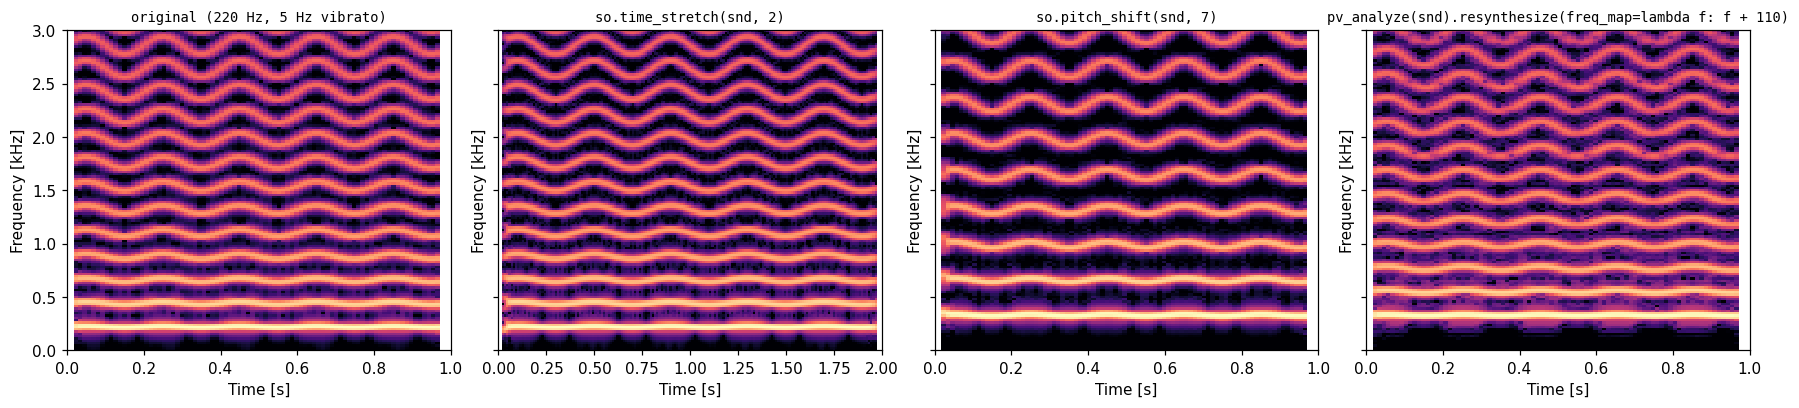
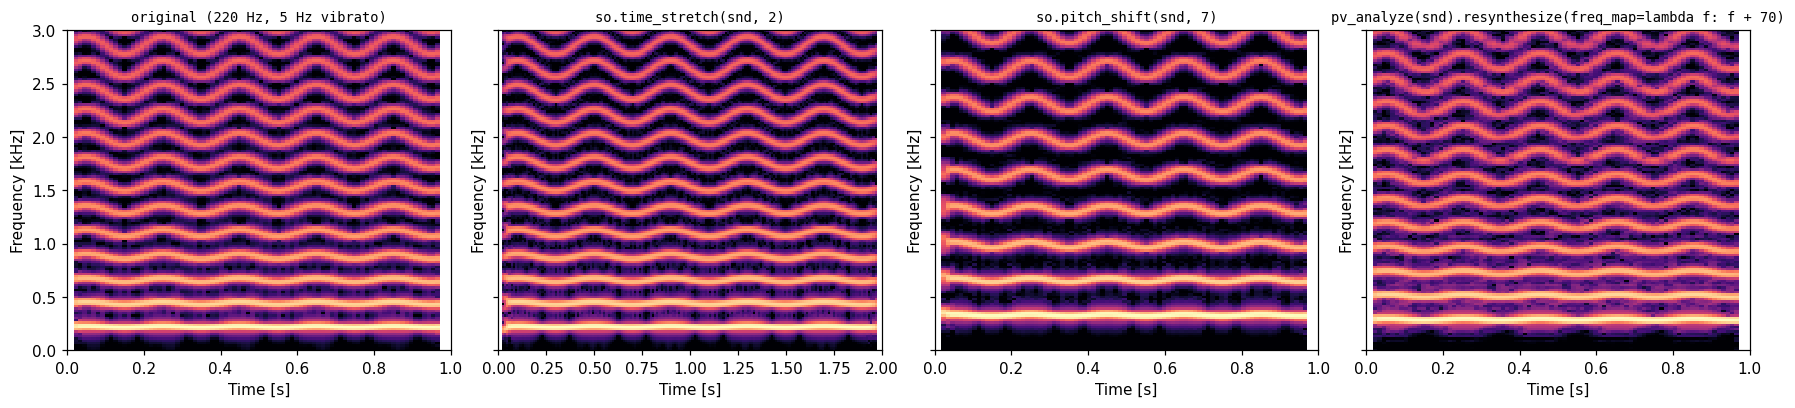
Fix synth_ir wrap-around at the end of the IR; correct the inharmonic example
- synth_ir: circular FFT re-filtering wrapped a little of the onset to the
  last samples of the IR (-22 dB instead of ~-64 dB). Zero-pad before
  re-filtering; regression test
- document that filterbank analysis/synthesis and Sound.envelope() are
  FFT-based (circular), and when to pad
- a +110 Hz shift of a 220 Hz complex gives odd harmonics of 110 Hz, not an
  inharmonic sound: README figure, text and docstring now use +70 Hz and
  explain the half-spacing case

diff --git a/src/sonore/filterbank.py b/src/sonore/filterbank.py
@@ -73,7 +73,13 @@ class CosineFilterbank:
         return self.response(np.fft.rfftfreq(n, 1 / fs))
 
     def analyze(self, sound: Sound) -> Subbands:
-        """Split ``sound`` into subbands (zero-phase, via FFT)."""
+        """Split ``sound`` into subbands (zero-phase, via FFT).
+
+        The filtering is circular: filter ringing near one end of the sound
+        wraps around to the other. That's harmless for sounds that are
+        stationary or start and end quietly; otherwise zero-pad first
+        (``sound.pad(before=..., after=...)``).
+        """
         n = len(sound)
         H = self.rfft_response(n, sound.fs)  # (F, B)
         X = np.fft.rfft(sound.data, axis=0)  # (F, C)
@@ -193,7 +199,8 @@ class Subbands:
 
     def synthesize(self) -> Sound:
         """Re-filter each band and sum: the exact inverse of
-        :meth:`CosineFilterbank.analyze`. Use this after modifying bands."""
+        :meth:`CosineFilterbank.analyze`. Use this after modifying bands.
+        Like ``analyze``, the filtering is circular (see there)."""
         n = self._data.shape[0]
         H = self.filterbank.rfft_response(n, self.fs)
         X = np.fft.rfft(self._data, axis=0) * H[:, :, None]

diff --git a/src/sonore/reverb.py b/src/sonore/reverb.py
@@ -9,7 +9,7 @@ from importlib.resources import files
 import numpy as np
 
 from sonore.envelopes import Envelopes
-from sonore.filterbank import ERBFilterbank
+from sonore.filterbank import ERBFilterbank, Subbands
 from sonore.generators import gaussian_noise
 from sonore.sound import Sound
 from sonore.utils import as_rng, db_to_amp
@@ -80,7 +80,13 @@ def synth_ir(
     elif envelope != "exponential":
         raise ValueError("envelope must be 'exponential' or 'time_reversed'")
     decay = Envelopes(db_to_amp(env_db), fs, fb)  # one exponential decay per band
-    tail = (decay * fb.analyze(noise)).synthesize().normalize()
+    shaped = decay * fb.analyze(noise)
+    # Re-filtering is FFT-based (circular), and the zero-phase filters smear a
+    # little of the loud onset to just before t = 0, which would wrap around to
+    # the end of the IR. Zero-pad first so that smear lands in discarded padding.
+    n, pad = len(noise), len(noise)
+    padded = Subbands(np.pad(shaped.data, ((pad, pad), (0, 0), (0, 0))), fs, fb)
+    tail = Sound(padded.synthesize().data[pad : pad + n], fs).normalize()
 
     if drr_db is None:
         return tail

diff --git a/src/sonore/phasevocoder.py b/src/sonore/phasevocoder.py
@@ -80,8 +80,10 @@ class PVAnalysis:
         interpolated between frames and whose phase is the running integral of
         frequency. ``time_scale`` stretches the time axis; ``freq_map`` is a
         ratio (e.g. ``1.5``) or a function mapping frequencies in Hz to new
-        frequencies (e.g. ``lambda f: f + 100`` to make a harmonic sound
-        inharmonic). Bins that never come within ``floor_db`` of the loudest
+        frequencies. For example ``lambda f: f + 70`` makes a 220 Hz harmonic
+        complex inharmonic; note that shifting by a multiple of half the f0
+        keeps it harmonic (``f + 110`` gives odd harmonics of 110 Hz).
+        Bins that never come within ``floor_db`` of the loudest
         bin are skipped, and partials mapped above Nyquist are dropped.
 
         This is designed for tonal sounds, which it reconstructs closely

diff --git a/src/sonore/sound.py b/src/sonore/sound.py
@@ -341,7 +341,12 @@ class Sound:
     def envelope(self):
         """Hilbert envelope of each channel, as an :class:`~sonore.envelopes.Envelope`
         (not a Sound: you apply an envelope to a sound rather than listen to it).
-        ``snd / snd.envelope()`` is the fine structure."""
+        ``snd / snd.envelope()`` is the fine structure.
+
+        The Hilbert transform is FFT-based, so a loud start can leak into the
+        last few milliseconds of the envelope (and vice versa). When the ends
+        matter, e.g. measuring a decay, pad first: ``snd.pad(after=0.5).envelope()``.
+        """
         from sonore.envelopes import Envelope
 
         return Envelope(np.abs(hilbert(self._data, axis=0)), self.fs)

diff --git a/tests/test_sonore.py b/tests/test_sonore.py
@@ -310,6 +310,13 @@ class TestReverb:
         slope = np.polyfit(t[sel], edc[sel], 1)[0]
         assert -60 / slope == pytest.approx(0.5, rel=0.25)
 
+    def test_no_wraparound_at_the_end(self):
+        # regression: circular filtering wrapped onset energy to the IR's last samples
+        ir = so.synth_ir(1.0, FS, drr_db=0, rng=0).data[:, 0]
+        onset = np.mean(ir[1 : int(0.05 * FS)] ** 2)
+        end = np.mean(ir[-int(0.05 * FS) :] ** 2)
+        assert 10 * np.log10(end / onset) < -50
+
     def test_binaural_tails_are_decorrelated(self):
         ir = so.synth_ir(0.5, FS, n_channels=2, rng=0)
         assert abs(np.corrcoef(ir.data.T)[0, 1]) < 0.1

diff --git a/docs/make_figures.py b/docs/make_figures.py
@@ -86,8 +86,8 @@ panels = [
     ("so.time_stretch(snd, 2)", so.time_stretch(sung, 2)),
     ("so.pitch_shift(snd, 7)", so.pitch_shift(sung, 7)),
     (
-        "pv_analyze(snd).resynthesize(freq_map=lambda f: f + 110)",
-        so.pv_analyze(sung).resynthesize(freq_map=lambda f: f + 110),
+        "pv_analyze(snd).resynthesize(freq_map=lambda f: f + 70)",
+        so.pv_analyze(sung).resynthesize(freq_map=lambda f: f + 70),
     ),
 ]
 fig, axes = plt.subplots(1, 4, figsize=(16, 3.6), sharey=True, layout="constrained")

diff --git a/README.md b/README.md
@@ -178,13 +178,16 @@ and `noise` are the two sounds' `Subbands` on the same filterbank.
 **Phase vocoder.** A 220 Hz complex with 5 Hz vibrato, stretched to twice the
 duration (the vibrato slows too, since every temporal feature is stretched),
 shifted up a fifth (vibrato rate unchanged), and resynthesized through an
-oscillator bank with every partial moved up 110 Hz, which makes it inharmonic.
+oscillator bank with every partial moved up 70 Hz, which makes it inharmonic
+(290, 510, 730 Hz, ...: still 220 Hz apart, but no longer harmonics of anything
+nearby). A shift of exactly half the spacing would not: +110 Hz gives odd
+harmonics of 110 Hz, a clarinet-like tone an octave down.
 
 ![Phase vocoder](https://raw.githubusercontent.com/choyun1/sonore/main/docs/images/phase_vocoder.png)
 
 ```python
 analysis = so.pv_analyze(snd)
-inharmonic = analysis.resynthesize(freq_map=lambda f: f + 110)
+inharmonic = analysis.resynthesize(freq_map=lambda f: f + 70)
 ```
 
 Figures are regenerated by `python docs/make_figures.py`.
